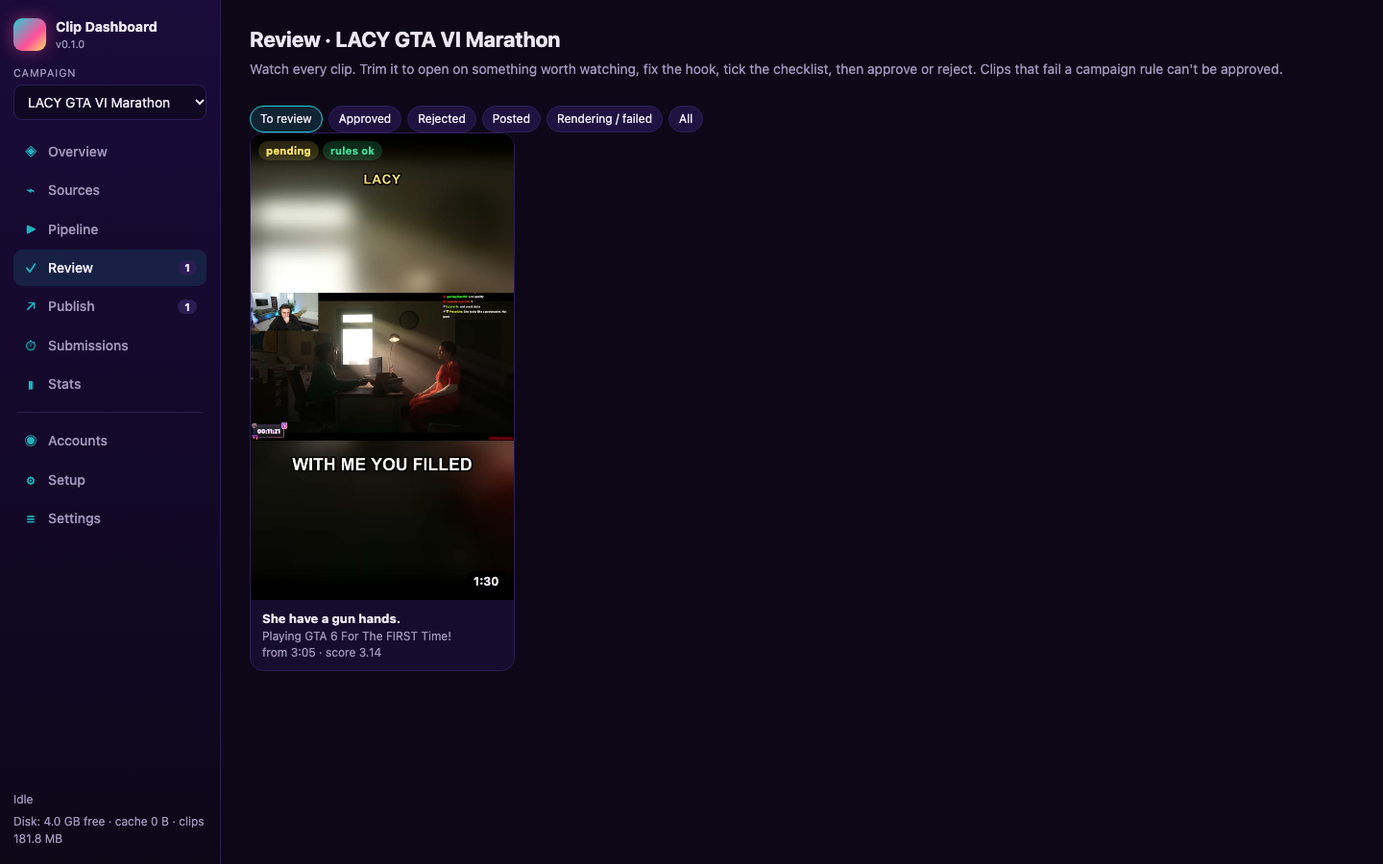
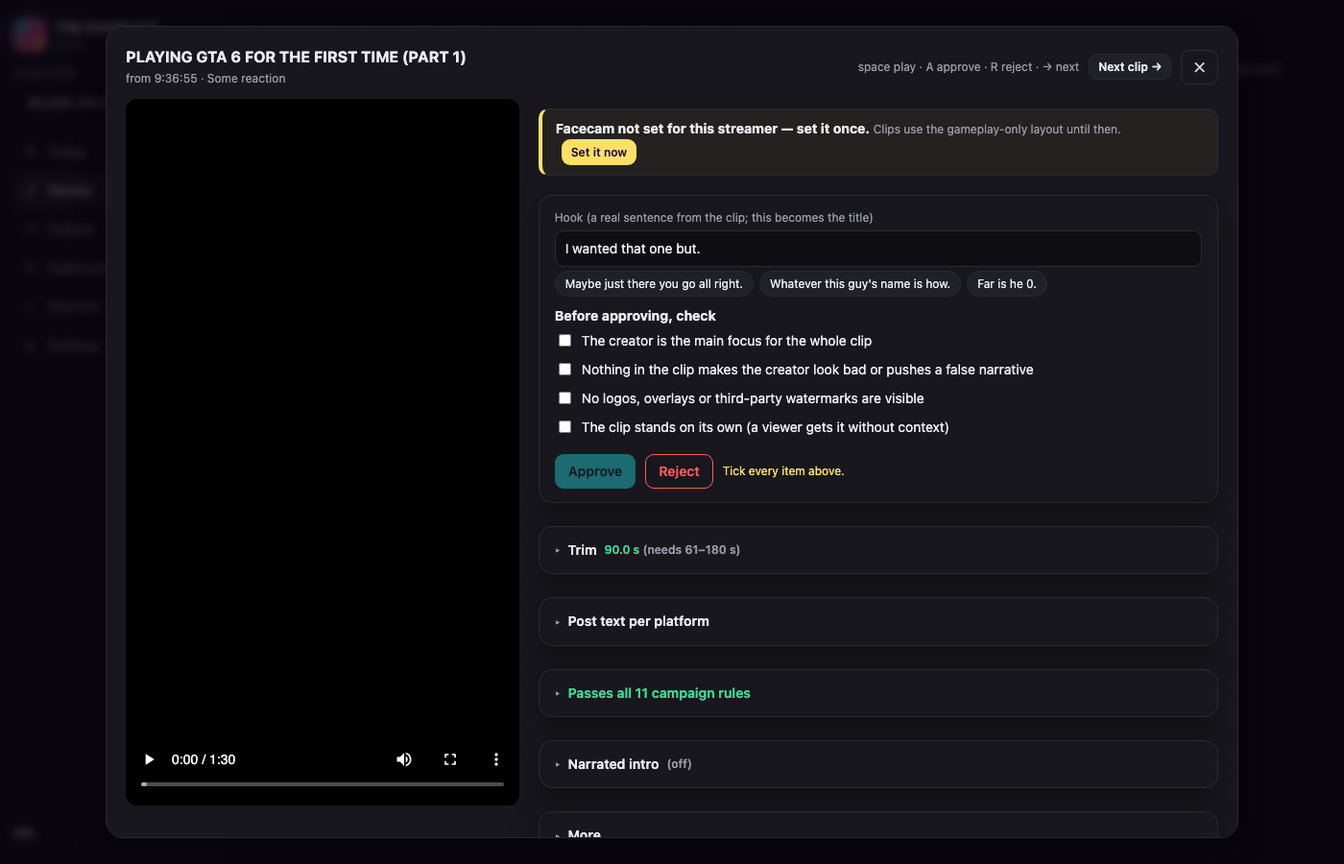
Visual polish: neutral base with accents only for actions and status, fixed-size 9:16 clip cards, one-line job status with popover, phone-width layout; README and screenshots updated

diff --git a/clipdash/web/styles.css b/clipdash/web/styles.css
@@ -1,36 +1,47 @@
+/* Neutral dark base; the neon accents (teal, pink, yellow) are reserved for primary actions and status. */
 :root{
-  --bg:#0d0718;--bg2:#1a0b3a;--panel:#160c2e;--panel2:#1f1240;--line:#2c1d55;--text:#ece7f5;--muted:#9f94b8;
+  --bg:#0f0f13;--bg2:#141419;--panel:#17171d;--panel2:#20202a;--line:#2a2a34;--text:#ebebf0;--muted:#9a9aa8;
   --teal:#1fd1d6;--pink:#ff4f9a;--yellow:#ffe066;--purple:#1a0b3a;--red:#ff5c5c;--green:#3ddc97;
   --radius:14px;--shadow:0 10px 30px rgba(0,0,0,.35);
 }
 *{box-sizing:border-box}
 html,body{margin:0;background:var(--bg);color:var(--text);font:14px/1.45 -apple-system,BlinkMacSystemFont,"Segoe UI",Inter,Roboto,sans-serif}
-a{color:var(--teal);text-decoration:none}
+a{color:var(--text);text-decoration:underline;text-decoration-color:var(--line);text-underline-offset:3px}
+a:hover{text-decoration-color:var(--muted)}
+a.btn,#nav a,.tabs a,.empty a,.step a{text-decoration:none}
 button,input,select,textarea{font:inherit;color:inherit}
 #app{display:grid;grid-template-columns:230px 1fr;min-height:100vh}
-#sidebar{background:linear-gradient(180deg,var(--bg2),#120826 60%,#0d0718);border-right:1px solid var(--line);padding:18px 14px;display:flex;flex-direction:column;gap:14px;position:sticky;top:0;height:100vh}
+#sidebar{background:var(--bg2);border-right:1px solid var(--line);padding:18px 14px;display:flex;flex-direction:column;gap:14px;position:sticky;top:0;height:100vh}
 .brand{display:flex;gap:10px;align-items:center}
 .brand .logo{width:34px;height:34px;border-radius:9px;background:linear-gradient(135deg,var(--teal),var(--pink) 60%,var(--yellow));box-shadow:0 0 18px rgba(255,79,154,.45)}
 .brand small{display:block;color:var(--muted);font-size:11px}
 .campaign-pick label{display:block;font-size:11px;color:var(--muted);text-transform:uppercase;letter-spacing:.08em;margin-bottom:4px}
 select,input[type=text],input[type=number],input[type=url],input[type=datetime-local],input[type=date],textarea,input[type=password]{
-  width:100%;background:#0f0822;border:1px solid var(--line);border-radius:9px;padding:8px 10px;color:var(--text);outline:none}
+  width:100%;background:var(--bg);border:1px solid var(--line);border-radius:9px;padding:8px 10px;color:var(--text);outline:none}
 select:focus,input:focus,textarea:focus{border-color:var(--teal);box-shadow:0 0 0 2px rgba(31,209,214,.18)}
 textarea{min-height:70px;resize:vertical}
 #nav{display:flex;flex-direction:column;gap:2px}
 #nav a{display:flex;align-items:center;gap:10px;padding:9px 10px;border-radius:9px;color:var(--muted);font-weight:500}
-#nav a i{font-style:normal;width:16px;text-align:center;color:var(--teal);opacity:.85}
+#nav a i{font-style:normal;width:16px;text-align:center;color:var(--muted)}
 #nav a:hover{background:rgba(255,255,255,.04);color:var(--text)}
-#nav a.active{background:rgba(31,209,214,.12);color:var(--text)}
+#nav a.active{background:rgba(255,255,255,.08);color:var(--text)}
+#nav a.active i{color:var(--text)}
 .nav-sep{height:1px;background:var(--line);margin:8px 4px}
 .pill{margin-left:auto;background:var(--line);color:var(--text);border-radius:999px;padding:0 7px;font-size:11px;font-weight:700;min-width:18px;text-align:center}
 .pill:empty{display:none}
 .pill.hot{background:var(--pink);color:#fff}
 #side-status{margin-top:auto;font-size:12px;color:var(--muted);display:flex;flex-direction:column;gap:6px}
+#jobs-mini details{position:relative}
+#jobs-mini summary{cursor:pointer;list-style:none;white-space:nowrap;overflow:hidden;text-overflow:ellipsis;color:var(--text)}
+#jobs-mini summary::-webkit-details-marker{display:none}
+#jobs-mini .pop{position:absolute;bottom:24px;left:0;width:260px;background:var(--panel2);border:1px solid var(--line);border-radius:10px;padding:10px;box-shadow:var(--shadow);z-index:20}
+#jobs-mini .pop div{padding:4px 0;border-bottom:1px solid var(--line)}
+#jobs-mini .pop div:last-child{border-bottom:0}
+.disk-warn{color:var(--yellow)}
 #dry-run-flag{background:var(--yellow);color:#1a0b3a;font-weight:700;padding:5px 8px;border-radius:8px;text-align:center}
 .hidden{display:none!important}
 #main{padding:26px 30px;max-width:1500px;width:100%}
-h1{font-size:22px;margin:0 0 4px;font-weight:700}
+h1{font-size:22px;margin:0 0 4px;font-weight:700;letter-spacing:-.01em}
 h2{font-size:16px;margin:22px 0 10px}
 h3{font-size:14px;margin:14px 0 6px}
 .sub{color:var(--muted);margin:0 0 18px}
@@ -42,18 +53,19 @@ h3{font-size:14px;margin:14px 0 6px}
 .grid{display:grid;gap:14px}
 .grid.cols-3{grid-template-columns:repeat(auto-fill,minmax(300px,1fr))}
 .grid.cols-2{grid-template-columns:repeat(auto-fill,minmax(420px,1fr))}
-.clip-grid{display:grid;grid-template-columns:repeat(auto-fill,minmax(230px,1fr));gap:16px}
-.clip-card{background:var(--panel);border:1px solid var(--line);border-radius:var(--radius);overflow:hidden;cursor:pointer;transition:transform .12s,border-color .12s;position:relative}
-.clip-card:hover{transform:translateY(-2px);border-color:var(--teal)}
-.clip-card .thumb{aspect-ratio:9/16;background:#000 center/cover no-repeat;display:flex;align-items:flex-end;position:relative}
+/* Clip cards: one fixed size, real 9:16 thumbnails, the hook as the title (two lines max) */
+.clip-grid{display:grid;grid-template-columns:repeat(auto-fill,180px);gap:16px;justify-content:start}
+.clip-card{width:180px;background:var(--panel);border:1px solid var(--line);border-radius:var(--radius);overflow:hidden;cursor:pointer;transition:transform .12s,border-color .12s;position:relative;display:flex;flex-direction:column}
+.clip-card:hover{transform:translateY(-2px);border-color:var(--muted)}
+.clip-card .thumb{width:100%;height:320px;flex:none;background:#000 center/cover no-repeat;display:flex;align-items:flex-end;position:relative}
 .clip-card .thumb video{width:100%;height:100%;object-fit:cover}
-.clip-card .meta{padding:10px 12px;font-size:12px;color:var(--muted)}
-.clip-card .meta b{display:block;color:var(--text);font-size:13px;white-space:nowrap;overflow:hidden;text-overflow:ellipsis}
+.clip-card .meta{padding:10px 12px;font-size:12px;color:var(--muted);min-height:78px}
+.clip-card .meta b{display:-webkit-box;-webkit-line-clamp:2;-webkit-box-orient:vertical;overflow:hidden;color:var(--text);font-size:13px;line-height:1.3}
 .clip-card.approved{border-color:var(--teal)}
 .clip-card.rejected{opacity:.4}
 .clip-card.posted{border-color:var(--yellow)}
 .clip-card.error{border-color:var(--red)}
-.badge{display:inline-block;padding:2px 8px;border-radius:999px;font-size:11px;font-weight:700;background:var(--line);color:var(--text);letter-spacing:.02em}
+.badge{display:inline-block;padding:2px 8px;border-radius:999px;font-size:11px;font-weight:600;background:var(--line);color:var(--muted);letter-spacing:.02em}
 .badge.ok,.badge.live,.badge.approved,.badge.connected,.badge.done{background:rgba(61,220,151,.18);color:var(--green)}
 .badge.warn,.badge.pending,.badge.scheduled,.badge.rendering,.badge.scanning,.badge.connecting,.badge.publishing,.badge.running,.badge.queued,.badge.private,.badge.draft,.badge.manual{background:rgba(255,224,102,.16);color:var(--yellow)}
 .badge.skipped{background:rgba(159,148,184,.2);color:var(--muted)}
@@ -77,7 +89,7 @@ h3{font-size:14px;margin:14px 0 6px}
 .tile{background:var(--panel);border:1px solid var(--line);border-radius:var(--radius);padding:14px 16px}
 .tile .n{font-size:26px;font-weight:800;letter-spacing:-.02em}
 .tile .l{font-size:12px;color:var(--muted)}
-.tile.teal .n{color:var(--teal)}.tile.pink .n{color:var(--pink)}.tile.yellow .n{color:var(--yellow)}
+.tile .n{color:var(--text)}
 .progress{height:6px;background:var(--line);border-radius:999px;overflow:hidden}
 .progress>i{display:block;height:100%;background:linear-gradient(90deg,var(--teal),var(--pink));transition:width .4s}
 table{width:100%;border-collapse:collapse}
@@ -93,8 +105,8 @@ tr:last-child td{border-bottom:0}
 .form-grid{display:grid;grid-template-columns:repeat(auto-fit,minmax(220px,1fr));gap:0 14px}
 .chips{display:flex;gap:6px;flex-wrap:wrap}
 .chip{background:var(--panel2);border:1px solid var(--line);border-radius:999px;padding:4px 10px;font-size:12px;cursor:pointer}
-.chip:hover{border-color:var(--teal)}
-.chip.on{background:rgba(31,209,214,.15);border-color:var(--teal)}
+.chip:hover{border-color:var(--muted)}
+.chip.on{background:rgba(255,255,255,.1);border-color:var(--text)}
 .check{display:flex;gap:8px;align-items:flex-start;padding:5px 0}
 .check input{margin-top:3px;accent-color:var(--teal)}
 .rule{display:flex;gap:8px;align-items:center;padding:4px 0;font-size:13px}
@@ -119,10 +131,23 @@ details.sect>summary::before{content:'▸';color:var(--muted);font-size:12px}
 details.sect[open]>summary::before{content:'▾'}
 .kbd-hint{display:none}
 @media (min-width:1100px){.kbd-hint{display:inline}}
-@media (max-width:900px){.review-layout{grid-template-columns:1fr}.review-video{position:static}.review-layout video{height:60vh}#app{grid-template-columns:1fr}#sidebar{position:static;height:auto}}
+@media (max-width:900px){
+  .review-layout{grid-template-columns:1fr}.review-video{position:static}.review-layout video{height:60vh}
+  #app{grid-template-columns:1fr}
+  #sidebar{position:sticky;top:0;height:auto;flex-direction:row;flex-wrap:wrap;align-items:center;gap:8px;padding:10px 12px;z-index:5;border-right:0;border-bottom:1px solid var(--line)}
+  .brand small{display:none}.campaign-pick{flex:1;min-width:150px}.campaign-pick label{display:none}
+  #nav{flex-direction:row;overflow-x:auto;width:100%;gap:2px;scrollbar-width:none}#nav a{padding:6px 9px;white-space:nowrap;font-size:13px}#nav a i{display:none}
+  #side-status{width:100%;margin:0;flex-direction:row;gap:10px;align-items:center}#jobs-mini .pop{bottom:auto;top:24px}
+  #main{padding:14px 12px}
+  h1{font-size:19px}
+  table{display:block;overflow-x:auto;white-space:nowrap}
+  .clip-grid{grid-template-columns:repeat(auto-fill,150px);gap:10px}.clip-card{width:150px}.clip-card .thumb{height:267px}
+  .modal{padding:14px;border-radius:12px;max-height:100vh}.modal-bg{padding:8px}
+  .form-grid{grid-template-columns:1fr}
+}
 .tabs{display:flex;gap:4px;border-bottom:1px solid var(--line);margin-bottom:10px}
 .tabs button{background:none;border:0;padding:8px 12px;color:var(--muted);cursor:pointer;border-bottom:2px solid transparent;font-weight:600}
-.tabs button.on{color:var(--text);border-bottom-color:var(--pink)}
+.tabs button.on{color:var(--text);border-bottom-color:var(--text)}
 .trim{display:flex;flex-direction:column;gap:6px}
 .trim input[type=range]{width:100%;accent-color:var(--pink)}
 .countdown{font-size:22px;font-weight:800;font-variant-numeric:tabular-nums}
@@ -135,16 +160,16 @@ details.sect[open]>summary::before{content:'▾'}
 .kv{display:grid;grid-template-columns:max-content 1fr;gap:4px 12px;font-size:13px}
 .kv b{color:var(--muted);font-weight:500}
 .callout{border:1px solid var(--line);border-left:4px solid var(--yellow);background:rgba(255,224,102,.06);padding:10px 14px;border-radius:10px;margin:10px 0}
-.callout.teal{border-left-color:var(--teal);background:rgba(31,209,214,.06)}
+.callout.teal{border-left-color:var(--muted);background:rgba(255,255,255,.03)}
 .callout.pink{border-left-color:var(--pink);background:rgba(255,79,154,.06)}
-code{background:#0f0822;padding:1px 5px;border-radius:5px;font-size:12px}
-details summary{cursor:pointer;color:var(--teal);font-weight:600}
+code{background:var(--bg);padding:1px 5px;border-radius:5px;font-size:12px}
+details summary{cursor:pointer;color:var(--text);font-weight:600}
 .empty{color:var(--muted);padding:30px;text-align:center;border:1px dashed var(--line);border-radius:var(--radius)}
 .video-row{display:grid;grid-template-columns:1fr auto;gap:12px;padding:12px 0;border-bottom:1px solid var(--line)}
 .video-row:last-child{border-bottom:0}
 .moment{display:flex;gap:12px;align-items:center;padding:8px 0;border-bottom:1px dashed var(--line)}
 .moment .t{font-weight:800;font-variant-numeric:tabular-nums;min-width:70px}
-.moment .score{color:var(--pink);font-weight:700;min-width:40px}
+.moment .score{display:none}
 .option-box{border:1px solid var(--line);border-radius:10px;padding:10px 12px;margin-top:8px}
 .ok-text{color:var(--green)}.bad-text{color:var(--red)}.warn-text{color:var(--yellow)}
 
@@ -169,7 +194,7 @@ details summary{cursor:pointer;color:var(--teal);font-weight:600}
 .live-badge,.live-dot{background:var(--red);color:#fff;font-weight:800;border-radius:6px;padding:1px 6px;font-size:11px;letter-spacing:.04em}
 .source-card+.source-card{margin-top:14px}
 .tabs a{padding:8px 12px;color:var(--muted);border-bottom:2px solid transparent;font-weight:600}
-.tabs a.on{color:var(--text);border-bottom-color:var(--pink)}
+.tabs a.on{color:var(--text);border-bottom-color:var(--text)}
 @media (max-width:700px){.step{grid-template-columns:34px 1fr}.step>.btn{grid-column:2}}
 
 /* Submissions cards */
@@ -186,3 +211,12 @@ details summary{cursor:pointer;color:var(--teal);font-weight:600}
 .clip-card .thumb.none{background:repeating-linear-gradient(135deg,var(--panel2) 0 10px,var(--panel) 10px 20px);align-items:center;justify-content:center}
 .thumb-ph{color:var(--muted);font-size:12px;text-align:center;width:100%}
 .best-thumb.none{display:flex;align-items:center;justify-content:center;font-size:10px;color:var(--muted);background:var(--panel2)}
+/* never scroll sideways on a phone */
+#main{min-width:0;overflow-x:hidden}
+h1,.sub,.sub-body,.step-sub,.meta{overflow-wrap:anywhere;min-width:0}
+.sub-body,.step-body{min-width:0}
+.campaign-pick{min-width:0}.campaign-pick select{max-width:100%}
+@media (max-width:900px){body{overflow-x:hidden}.sub-body .row input{width:100%!important}.row>input[type=text]{min-width:0!important}}
+#app{max-width:100vw;overflow-x:hidden}
+#sidebar{min-width:0}
+select{max-width:100%}

diff --git a/clipdash/web/app.js b/clipdash/web/app.js
@@ -109,10 +109,24 @@ async function refreshState() {
     $('#pill-subs').textContent = (t ? t.submissions.count : st.submissions_due) || '';
     $('#pill-attention').textContent = (t && t.attention.length) || '';
     $('#dry-run-flag').classList.toggle('hidden', !st.dry_run);
-    $('#jobs-mini').innerHTML = st.jobs_running.length ? st.jobs_running.map((j) => `<div>⟳ ${esc(j.type.replace('_', ' '))} ${Math.round(j.progress * 100)}%<br><span class="small">${esc(j.message)}</span></div>`).join('') + (st.jobs_queued ? `<div>${st.jobs_queued} queued</div>` : '') : `<div>Idle${st.jobs_queued ? ' · ' + st.jobs_queued + ' queued' : ''}</div>`;
+    $('#jobs-mini').innerHTML = jobsSummary(st.jobs_running, st.jobs_queued);
+    $$('#jobs-mini [data-cancel-job]').forEach((b) => b.onclick = (e) => { e.preventDefault(); post(`/api/jobs/${b.dataset.cancelJob}/cancel`).then(refreshState).catch(toastErr); });
     const d = st.disk;
-    $('#disk-mini').innerHTML = `Disk: ${fmtBytes(d.free_bytes)} free · cache ${fmtBytes(d.cache_bytes)} · clips ${fmtBytes(d.clips_bytes)}`;
+    $('#disk-mini').innerHTML = d.free_bytes < 2 * 1024 ** 3 ? `<span class="disk-warn">Disk low: ${fmtBytes(d.free_bytes)} free</span>` : '';
   } catch (e) { $('#jobs-mini').textContent = 'Server unreachable'; }
+}
+
+// One line like "Making 2 clips · 1 scan running"; the details are in a popover.
+const JOB_WORDS = { render_clip: ['Making', 'clip', 'clips'], finalize_clip: ['Exporting', 'clip', 'clips'], render_intro: ['Voicing', 'intro', 'intros'], scan_video: ['', 'scan running', 'scans running'],
+  check_sources: ['Checking', 'channel', 'channels'], publish_post: ['Posting', 'clip', 'clips'], check_post: ['Checking', 'post', 'posts'], refresh_stats: ['Refreshing', 'stats', 'stats'],
+  grab_frame: ['Grabbing', 'frame', 'frames'], install_tdcli: ['Installing', 'tool', 'tools'], download_whisper: ['Downloading', 'model', 'models'], download_piper_voice: ['Downloading', 'voice', 'voices'] };
+function jobsSummary(running, queued) {
+  const counts = {}; running.forEach((j) => { counts[j.type] = (counts[j.type] || 0) + 1; });
+  const parts = Object.entries(counts).map(([t, n]) => { const w = JOB_WORDS[t] || ['Running', t.replace(/_/g, ' '), t.replace(/_/g, ' ')]; return `${w[0]} ${n} ${n === 1 ? w[1] : w[2]}`.trim(); });
+  const line = parts.length ? parts.join(' · ') : 'Idle';
+  const tail = queued ? ` · ${queued} waiting` : '';
+  const pop = running.length ? `<div class="pop">${running.map((j) => `<div><b>${esc(label('job', j.status))}</b> ${esc(j.type.replace(/_/g, ' '))} · ${Math.round(j.progress * 100)}%<br><span class="small muted">${esc(j.message || '')}</span><br><a href="#" class="small" data-cancel-job="${j.id}">Cancel</a></div>`).join('')}</div>` : '';
+  return `<details><summary title="click for details">${running.length ? '⟳ ' : ''}${esc(line + tail)}</summary>${pop}</details>`;
 }
 
 const VIEWS = {};
@@ -828,8 +842,8 @@ PANES.stats = async (el) => {
   const c = campaign();
   const st = await get(`/api/stats${c ? '?campaign_id=' + c.id : ''}`);
   el.innerHTML = `<div class="row between"><div><h2 style="margin-top:0">Stats</h2><p class="sub">Views where the platform API provides them (direct and service routes). Assisted posts show no views. Estimated earnings use the campaign's rate and cap; pool campaigns pay by share of approved views, which the app can't know.</p></div><button class="btn" id="refresh">Refresh views</button></div>
-    <div class="stat-tiles">${st.campaigns.map((x) => `<div class="tile teal"><div class="n">${fmtNum(x.views)}</div><div class="l">${esc(x.campaign.name)} views over ${x.posts} live posts</div></div>
-      <div class="tile yellow"><div class="n">${x.campaign.pay_model === 'pool' ? '$' + fmtNum(x.campaign.pool_budget) + ' pool' : '$' + x.earnings.toFixed(2)}</div><div class="l">${x.campaign.pay_model === 'pool' ? `pool · ${x.campaign.min_views ? fmtNum(x.views) + ' / ' + fmtNum(x.campaign.min_views) + ' views needed' : 'split by view share'}` : 'estimated earnings'}</div></div>`).join('') || emptyState('No live posts yet. Publish an approved clip', 'Publish', '#/publish')}</div>
+    <div class="stat-tiles">${st.campaigns.map((x) => `<div class="tile"><div class="n">${fmtNum(x.views)}</div><div class="l">${esc(x.campaign.name)} views over ${x.posts} live posts</div></div>
+      <div class="tile"><div class="n">${x.campaign.pay_model === 'pool' ? '$' + fmtNum(x.campaign.pool_budget) + ' pool' : '$' + x.earnings.toFixed(2)}</div><div class="l">${x.campaign.pay_model === 'pool' ? `pool · ${x.campaign.min_views ? fmtNum(x.views) + ' / ' + fmtNum(x.campaign.min_views) + ' views needed' : 'split by view share'}` : 'estimated earnings'}</div></div>`).join('') || emptyState('No live posts yet. Publish an approved clip', 'Publish', '#/publish')}</div>
     <div class="panel" style="margin-top:14px"><table><tr><th>Post</th><th>Platform</th><th>Views</th><th>Est.</th><th>Checked</th></tr>${st.posts.map((p) => `<tr><td class="small"><a href="${esc(p.url || '#')}" target="_blank">${esc(p.clip?.hook || p.title)}</a></td><td><span class="badge">${p.platform}</span> <span class="badge ${p.route}">${p.route}</span></td><td>${p.views == null ? '<span class="muted">n/a</span>' : fmtNum(p.views)}</td><td>${p.earnings_estimate ? '$' + p.earnings_estimate.toFixed(2) : ''}</td><td class="small muted">${p.views_checked_at ? fmtDate(p.views_checked_at) : ''}</td></tr>`).join('')}</table></div>`;
   $('#refresh').onclick = () => post(`/api/stats/refresh${c ? '?campaign_id=' + c.id : ''}`).then(() => toast('Refreshing in the background')).catch(toastErr);
 };

diff --git a/README.md b/README.md
@@ -5,27 +5,40 @@ each one, and posts or schedules the approved ones to YouTube, TikTok and Instag
 computer with your own accounts. Nothing is automatic past the point where a person watches the clip:
 every post is something you approved.
 
-![Review](docs/screenshots/review.png)
+![Today](docs/screenshots/today.png)
 
 ## What it does
+
+The sidebar has six places: **Today**, **Review**, **Publish**, **Submissions**, **Sources** and **Settings**. Today is a
+checklist that drives the day: clips waiting for you, approved clips not yet posted, posted clips not yet submitted (with
+the soonest countdown), the channels being watched (live ones marked LIVE) and anything that failed, each with one button.
 
 1. **Campaign** – you paste the campaign's rules (creator, required name and hashtag, minimum length,
    platforms, footage dates, submission deadline, pay). Rules are data: the app checks the ones a machine
    can check and shows the rest as a checklist.
 2. **Sources** – YouTube/Twitch channels or single videos attached to the campaign. Channels are watched for
-   new GTA VI videos. A visual picker sets where the streamer's facecam sits.
-3. **Pipeline** – each video is scanned for moments (chat spikes, YouTube "most replayed", transcript cues,
+   new GTA VI videos. Each source opens to show its videos and the ranked moments found in each one: a thumbnail,
+   a plain label (*Chat exploded*, *Big reaction*, *Some reaction*, *Quiet*) and what chat was saying. Moments
+   where the streamer is not talking or chat is spam are tucked under *show skipped*. A visual picker sets where
+   the streamer's facecam sits.
+3. **Clips** – each video is scanned for moments (chat spikes, YouTube "most replayed", transcript cues,
    loudness), only the 90-second segments around the best moments are downloaded, Whisper transcribes them,
    captions are burned in and the clip is laid out 9:16 (facecam on top, gameplay below).
-4. **Review** – a grid of 9:16 players. Trim, pick a hook sentence from the transcript, edit the per-platform
-   post text, see rule checks pass or fail, tick the checklist, approve or reject. A clip that fails a rule
-   cannot be approved.
+4. **Review** – the clip plays full height on the left; on the right: the hook (with three alternatives), the
+   checklist, Approve / Reject. Trim, per-platform post text and rule results sit in collapsed sections below;
+   rules show as one green line (*Passes all 11 campaign rules*) or a red list. Approve stays disabled, with the
+   reason next to it, until the checklist is ticked and every rule passes. Keyboard: space play/pause, A approve,
+   R reject, → next clip.
 5. **Publish** – post now or schedule (date, time, time zone) to one account per platform through one of
    three routes: *direct* (your own developer app on the official API), *service* (an audited third-party
    posting API), *assisted* (the app reveals the file, copies the caption and opens the upload page).
 6. **Submissions** – when a post goes live, a countdown starts (30 minutes for LACY). One click copies the
    link and opens the campaign's submission page; tick *Submitted* when done.
-7. **Stats** – views where the APIs give them, and estimated earnings from the campaign's rate and cap.
+7. **Settings** – tuning, Setup (tools and credentials), Accounts and Stats as tabs.
+
+Status words are plain: *Making clip…*, *Ready to review*, *Finding moments…*, *Posted*, *Needs your upload*. A failure
+always shows its cause in one sentence with a *Retry* button (the raw error stays in the tooltip). If the app is closed
+mid-render, those clips show *Interrupted — retry* on the next start instead of hanging.
 
 ## Install (once, about 5 minutes)
 
@@ -49,7 +62,7 @@ A terminal window opens, then your browser at `http://127.0.0.1:8765`. Keep the 
 app. Scheduled posts (except YouTube direct and the posting service, which schedule on their side) only fire
 while it runs. Close the window to stop.
 
-First launch shows **Setup**:
+First launch opens **Settings → Setup**:
 
 ![Setup](docs/screenshots/setup.png)
 
@@ -59,43 +72,56 @@ First launch shows **Setup**:
 
 ## Make your first clip (about 10 minutes)
 
-1. **Overview → New campaign.** Paste the campaign URL and click *Read page*, or paste the rules text and
+1. **Campaign dropdown → + New campaign.** Paste the campaign URL and click *Read page*, or paste the rules text and
    *Pre-fill*. The importer reads the page title, Open Graph tags and visible text only (never scripts or
    styles), fills creator, name, pool/rate, platforms and uses the page as the submission URL. Whop Content
    Rewards pages hide the rules until you join: the form says so and leaves hashtag, name and date fields empty
    until you paste the rules. Check every field against the campaign page, especially the required hashtag,
    minimum length (61 s by default), footage start date, submission URL and deadline. Save.
-2. **Pipeline → paste a video URL → Scan.** Pick a scan window first: *Auto* scans the last 2 hours of any VOD
+2. **Sources → paste a video URL → Add.** Pick a scan window first: *Auto* scans the last 2 hours of any VOD
    longer than 4 hours (a 2-hour window of Twitch chat downloads in seconds, so clips are reviewable in about
    2 minutes) and the whole video otherwise; *Last 6 hours*, *Whole video* and *Custom start/end* are there too.
    A stream that is still live works: the latest window of the growing VOD is scanned. After a windowed scan,
    **Scan the rest** continues in 2-hour chunks in the background, merging moments and skipping ranges already
    scanned. Videos published before the campaign's footage start date are skipped silently at add/watch time
-   (logged, not listed); a *Show skipped (N)* toggle at the bottom of the Pipeline reveals them with a
+   (logged, not listed); a *Show skipped (N)* toggle at the bottom of Sources reveals them with a
    *Scan anyway* override. The first scan also loads
    the Whisper model, which takes a minute.
-   After a scan the video shows its **ranked moments**: timestamp, score, why it was picked, the top chat words
-   and a thumbnail. Only the single best moment is rendered automatically (Settings → *auto-render top N*,
+   After a scan the video (inside its source card) shows its **ranked moments**: thumbnail, timestamp, how strong
+   the reaction was and what chat was saying (the numbers are in the tooltip). Only the single best moment is rendered automatically (Settings → *auto-render top N*,
    default 1); every other moment has a **Render** button, plus **Render next best**. Moments where the streamer
-   is barely talking (Silero VAD on 40 s of audio) or where chat is one repeated message are labelled *low speech*
-   / *chat spam* and scored down, so an asleep streamer with a busy chat no longer wins. Queued or running renders
+   is barely talking (Silero VAD on 40 s of audio) or where chat is one repeated message are listed under *show skipped* as
+   *Skipped: streamer not talking* / *Skipped: chat spam*, so an asleep streamer with a busy chat no longer wins. Queued or running renders
    can be cancelled from the same list. On an Apple Silicon Mac a 2-hour window scans in about 30 s and the first
    clip is reviewable in about 2 minutes (hardware H.264 encoding; software fallback elsewhere).
-   For a channel instead of a single video, go to **Sources** and add `youtube.com/@name` or `twitch.tv/name`;
+   For a channel instead of a single video, add `youtube.com/@name` or `twitch.tv/name` in the same box;
    the suggestion chips resolve IShowSpeed, CaseOh, LACY and Kai Cenat by lookup.
-3. **Sources → Set facecam crop** (once per channel). Grab a frame, drag a box around the webcam, save. Clips
-   rendered before that use the gameplay-only layout; use *Re-render* on a clip to apply the crop.
-4. **Review.** Open a clip. Drag the start/end sliders so it opens on something worth watching (the length
-   must stay inside the campaign's limits; the number turns green). Pick a hook from the transcript chips or
-   type one. Check the post text per platform (the required name and tag are added for you). Tick the
-   checklist. **Approve.**
-5. **Accounts → Add account.** Start with route *Assisted* for each platform you use. Add *Direct* or
+
+![Sources](docs/screenshots/sources.png)
+3. **Set the facecam once per streamer.** The first clip from a new streamer shows a yellow banner in Review
+   (*Facecam not set for this streamer*) with the picker inline: grab a frame, drag a box around the webcam, save,
+   or choose *No facecam* so it stops asking. Clips rendered before that use the gameplay-only layout; *Re-render*
+   (under *More*) applies the crop.
+4. **Review.** Open a clip; it plays on the left. Pick a hook from the three chips or type one, tick the checklist,
+   **Approve** (or press A). The line next to the button says what still blocks approval. Open *Trim* if the clip
+   should start later or end earlier (the length must stay inside the campaign's limits; the number turns green),
+   *Post text* to check captions per platform (the required name and tag are added for you), *Rules* to see the
+   checks.
+
+![Review](docs/screenshots/review.png)
+
+5. **Settings → Accounts → Add account.** Start with route *Assisted* for each platform you use. Add *Direct* or
    *Service* accounts later (see below).
 6. **Publish → Post / schedule.** Tick accounts, choose *Post now* or *Schedule* with a time zone, confirm.
    Assisted posts appear in the queue with *Open upload page*, *Copy caption* and *Reveal file*; upload in the
    browser, paste the post link back and click *Live*.
 7. **Submissions.** The countdown runs from the moment the post is live. *Copy + open submission page*, paste
-   the link there, tick *Submitted*. The app warns before anything that would edit or delete a submitted post.
+   the link there, tick *Submitted*. When the countdown reaches zero the row turns to **Missed** (no negative
+   timer) with *Mark submitted anyway* in case you submitted outside the app; the campaign may reject late ones.
+   Rows are sorted active → missed → done. A post sent through the posting service shows *Posted, fetching link…*
+   until the service reports the platform link (polled every 30 s for 15 minutes); if none arrives, *Open on
+   TikTok* and a paste field let you fill it in by hand. The app warns before anything that would edit or delete
+   a submitted post. The page works at phone width, so you can submit from your phone while the computer renders.
 
 ![Publish](docs/screenshots/publish.png)
 
@@ -137,7 +163,8 @@ within the first second; the real action starts by about second 4.
 
 ## Connecting accounts
 
-Each account uses one route. The Accounts page shows what every route can and cannot do.
+Each account uses one route. Settings → Accounts shows what every route can and cannot do. A failed post shows
+the platform's own message and a suggested fix next to *Retry*.
 
 | Route | YouTube | TikTok | Instagram |
 |---|---|---|---|
@@ -221,8 +248,8 @@ push automatically: `printf '#!/bin/sh\n.venv/bin/python scripts/secret_scan.py\
   again (it upgrades packages).
 - **Captions missing on Windows** – the bundled ffmpeg includes libass; if a font error appears, install
   the Arial font or change the font name in `clipdash/cut.py`.
-- **Disk full** – Settings → *Clear cache now*, lower the cache cap, or move `data/` with `CLIPDASH_DATA`.
-- **Twitch chat fails** – Setup → download TwitchDownloaderCLI; on macOS the quarantine flag is removed
+- **Disk full** – the sidebar warns under 2 GB free; Settings → *Clear cache now*, lower the cache cap, or move `data/` with `CLIPDASH_DATA`.
+- **Twitch chat fails** – Settings → Setup → download TwitchDownloaderCLI; on macOS the quarantine flag is removed
   automatically.
 - **Port 8765 busy** – set `CLIPDASH_PORT` before launching.
 
